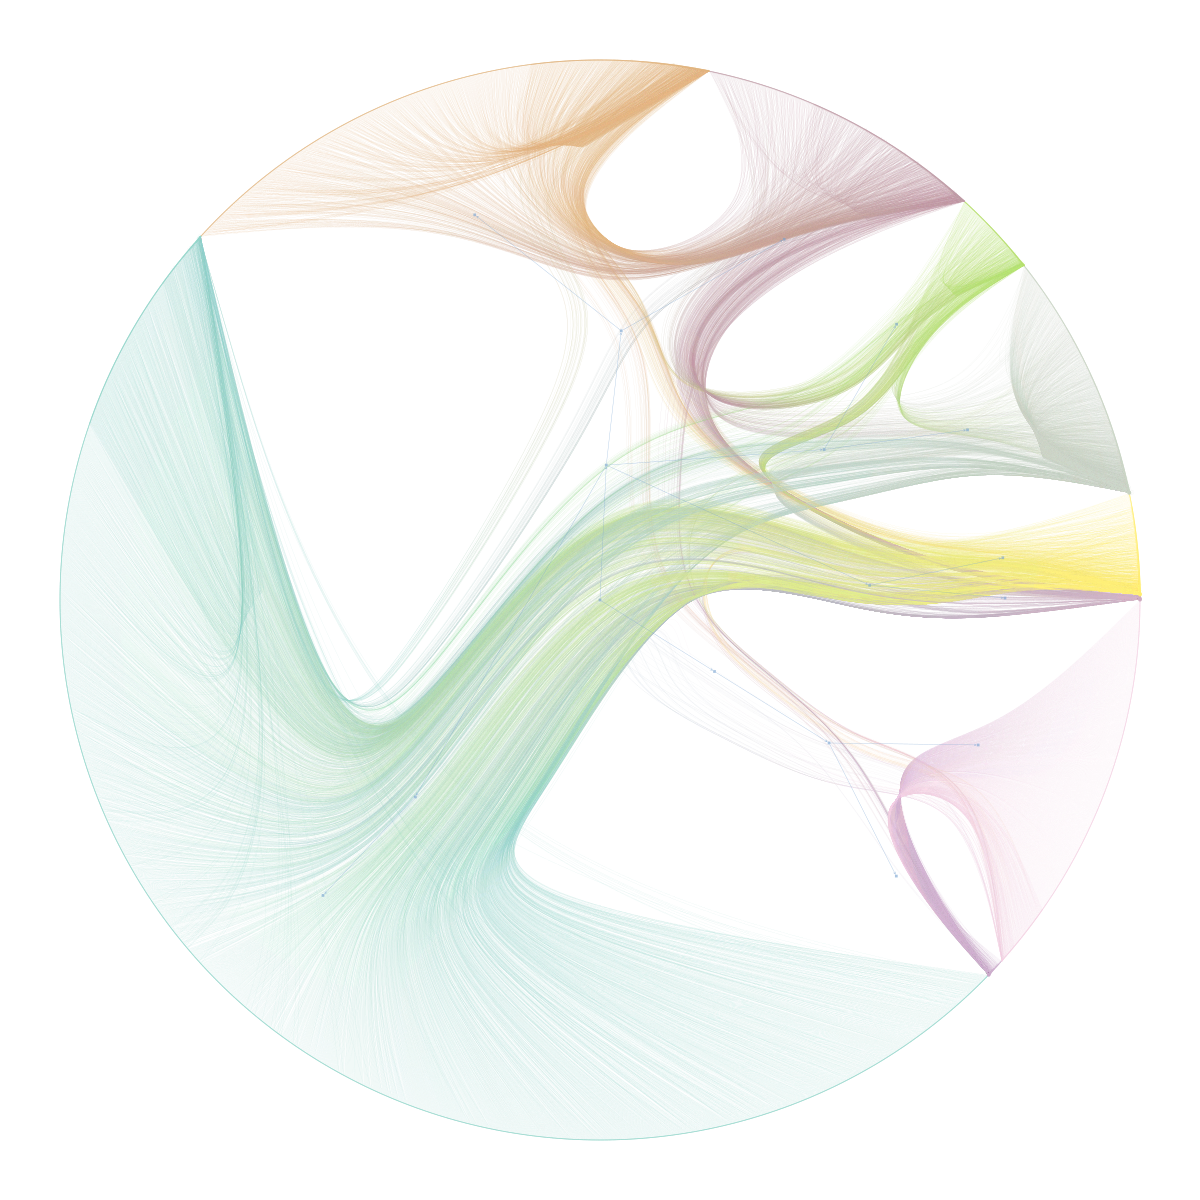
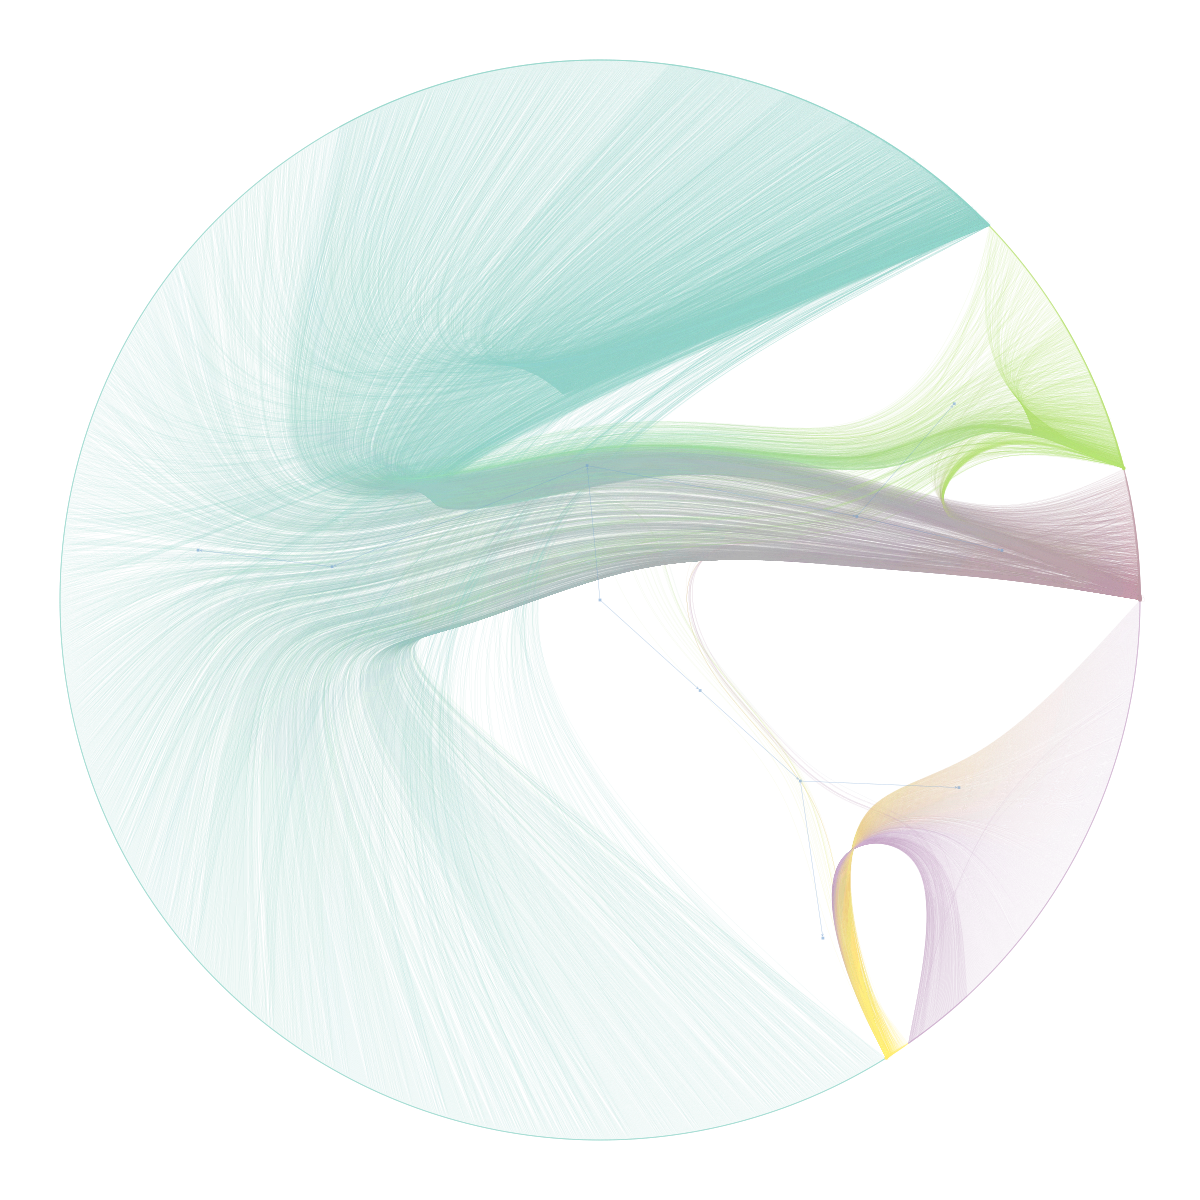
🐛 add weight to betweeness centrality

Changed region(s): [[0.0925, 0.0308, 0.9558, 0.8325], [0.6167, 0.5858, 0.8325, 0.8942]]

diff --git a/docs/src/analysis.html b/docs/src/analysis.html
@@ -423,7 +423,7 @@ weight         (edge)    (type: int32_t)</code></pre>
 <div class="cell-output cell-output-display">
 <p><img src="analysis_files/figure-html/cell-5-output-1.png" class="img-fluid"></p>
 </div>
-<div class="cell-output cell-output-display" data-execution_count="4">
+<div class="cell-output cell-output-display" data-execution_count="19">
 <pre><code>''</code></pre>
 </div>
 </div>
@@ -443,7 +443,7 @@ weight         (edge)    (type: int32_t)</code></pre>
 <div class="cell-output cell-output-display">
 <p><img src="analysis_files/figure-html/cell-6-output-1.png" class="img-fluid"></p>
 </div>
-<div class="cell-output cell-output-display" data-execution_count="5">
+<div class="cell-output cell-output-display" data-execution_count="20">
 <pre><code>''</code></pre>
 </div>
 </div>
@@ -461,7 +461,7 @@ weight         (edge)    (type: int32_t)</code></pre>
 <div class="cell-output cell-output-display">
 <p><img src="analysis_files/figure-html/cell-7-output-1.png" class="img-fluid"></p>
 </div>
-<div class="cell-output cell-output-display" data-execution_count="6">
+<div class="cell-output cell-output-display" data-execution_count="21">
 <pre><code>''</code></pre>
 </div>
 </div>
@@ -478,7 +478,7 @@ weight         (edge)    (type: int32_t)</code></pre>
 <div class="cell-output cell-output-display">
 <p><img src="analysis_files/figure-html/cell-8-output-1.png" class="img-fluid"></p>
 </div>
-<div class="cell-output cell-output-display" data-execution_count="7">
+<div class="cell-output cell-output-display" data-execution_count="22">
 <pre><code>''</code></pre>
 </div>
 </div>
@@ -526,7 +526,7 @@ weight         (edge)    (type: int32_t)</code></pre>
 <span id="cb15-23"><a href="#cb15-23" aria-hidden="true" tabindex="-1"></a>plt.legend()</span>
 <span id="cb15-24"><a href="#cb15-24" aria-hidden="true" tabindex="-1"></a><span class="op">;</span></span></code><button title="Copy to Clipboard" class="code-copy-button"><i class="bi"></i></button></pre></div>
 </details>
-<div class="cell-output cell-output-display" data-execution_count="9">
+<div class="cell-output cell-output-display" data-execution_count="24">
 <pre><code>''</code></pre>
 </div>
 <div class="cell-output cell-output-display">
@@ -591,7 +591,7 @@ weight         (edge)    (type: int32_t)</code></pre>
 35: 0
 36: 1</code></pre>
 </div>
-<div class="cell-output cell-output-display" data-execution_count="10">
+<div class="cell-output cell-output-display" data-execution_count="25">
 <pre><code>''</code></pre>
 </div>
 <div class="cell-output cell-output-display">
@@ -643,28 +643,28 @@ Average path length of the network (out): 1.4754869039623908 with std: 0.0575097
 <span id="cb22-10"><a href="#cb22-10" aria-hidden="true" tabindex="-1"></a><span class="op">;</span></span></code><button title="Copy to Clipboard" class="code-copy-button"><i class="bi"></i></button></pre></div>
 </details>
 <div class="cell-output cell-output-stdout">
-<pre><code>1: 8743
-2: 13474
-3: 13850
+<pre><code>1: 8753
+2: 13460
+3: 13827
 4: 14242
-5: 16132
-6: 13068
-7: 9925
-8: 7192
-9: 6137
-10: 6683
-11: 6783
-12: 5910
-13: 9495
-14: 11039
-15: 8258
-16: 4897
-17: 2371
-18: 850
-19: 148
+5: 16118
+6: 13033
+7: 9919
+8: 7198
+9: 6143
+10: 6700
+11: 6787
+12: 5916
+13: 9522
+14: 11027
+15: 8272
+16: 4911
+17: 2372
+18: 851
+19: 146
 20: 13</code></pre>
 </div>
-<div class="cell-output cell-output-display" data-execution_count="12">
+<div class="cell-output cell-output-display" data-execution_count="27">
 <pre><code>''</code></pre>
 </div>
 <div class="cell-output cell-output-display">
@@ -731,7 +731,7 @@ Average path length of the network (out): 1.4754869039623908 with std: 0.0575097
 19        elemob_de          66          0.16     0.75
 20   OliverSKBerlin          63          0.15     0.72</code></pre>
 </div>
-<div class="cell-output cell-output-display" data-execution_count="13">
+<div class="cell-output cell-output-display" data-execution_count="28">
 <pre><code>''</code></pre>
 </div>
 <div class="cell-output cell-output-display">
@@ -810,7 +810,7 @@ Average path length of the network (out): 1.4754869039623908 with std: 0.0575097
 <div class="cell" data-execution_count="15">
 <details>
 <summary>Code</summary>
-<div class="sourceCode cell-code" id="cb30"><pre class="sourceCode python code-with-copy"><code class="sourceCode python"><span id="cb30-1"><a href="#cb30-1" aria-hidden="true" tabindex="-1"></a>vp, ep <span class="op">=</span> gt.betweenness(g)</span>
+<div class="sourceCode cell-code" id="cb30"><pre class="sourceCode python code-with-copy"><code class="sourceCode python"><span id="cb30-1"><a href="#cb30-1" aria-hidden="true" tabindex="-1"></a>vp, ep <span class="op">=</span> gt.betweenness(g, pivots<span class="op">=</span><span class="va">None</span>, vprop<span class="op">=</span><span class="va">None</span>, eprop<span class="op">=</span><span class="va">None</span>, weight<span class="op">=</span>g.ep[<span class="st">"weight"</span>], norm<span class="op">=</span><span class="va">True</span>)</span>
 <span id="cb30-2"><a href="#cb30-2" aria-hidden="true" tabindex="-1"></a></span>
 <span id="cb30-3"><a href="#cb30-3" aria-hidden="true" tabindex="-1"></a>gt.graph_draw(g, pos<span class="op">=</span>pos, vertex_fill_color<span class="op">=</span>vp,</span>
 <span id="cb30-4"><a href="#cb30-4" aria-hidden="true" tabindex="-1"></a>              vertex_size<span class="op">=</span>gt.prop_to_size(vp, mi<span class="op">=</span><span class="dv">1</span>, ma<span class="op">=</span><span class="dv">10</span>),</span>
@@ -822,7 +822,7 @@ Average path length of the network (out): 1.4754869039623908 with std: 0.0575097
 <div class="cell-output cell-output-display">
 <p><img src="analysis_files/figure-html/cell-16-output-1.png" class="img-fluid"></p>
 </div>
-<div class="cell-output cell-output-display" data-execution_count="15">
+<div class="cell-output cell-output-display" data-execution_count="30">
 <pre><code>''</code></pre>
 </div>
 </div>
@@ -853,32 +853,32 @@ Average path length of the network (out): 1.4754869039623908 with std: 0.0575097
 </details>
 <div class="cell-output cell-output-stdout">
 <pre><code>           Username  Betweenness Score  (normalised)
-1     leseerlaubnis            0.00192          1.00
-2      BentsCristin            0.00184          0.96
-3          SicherEU            0.00180          0.94
-4    EberhardSchlie            0.00165          0.86
-5     Haselmaus2010            0.00152          0.79
-6         Diggi_tal            0.00152          0.79
-7      EINSBERGBLOG            0.00151          0.79
-8       hav_hendrik            0.00126          0.66
-9   JSchmitzLeipzig            0.00122          0.64
-10      Herr_Nuxoll            0.00119          0.62
-11            ciffi            0.00115          0.60
-12    risikogruppen            0.00085          0.44
+1     leseerlaubnis            0.00194          1.00
+2      BentsCristin            0.00188          0.97
+3          SicherEU            0.00182          0.94
+4    EberhardSchlie            0.00167          0.86
+5     risikogruppen            0.00160          0.82
+6     Haselmaus2010            0.00156          0.80
+7         Diggi_tal            0.00155          0.80
+8      EINSBERGBLOG            0.00154          0.79
+9       hav_hendrik            0.00126          0.65
+10  JSchmitzLeipzig            0.00122          0.63
+11      Herr_Nuxoll            0.00119          0.61
+12            ciffi            0.00115          0.59
 13     sdw_Stiftung            0.00081          0.42
-14   HSE_Heidelberg            0.00080          0.42
-15  zumWeitertragen            0.00072          0.37
-16           SenBJF            0.00068          0.35
-17    PartnerSchule            0.00059          0.31
-18      DianaKnodel            0.00053          0.27
-19         Woe_Real            0.00050          0.26
-20       BerlinSoul            0.00046          0.24</code></pre>
+14   HSE_Heidelberg            0.00080          0.41
+15           SenBJF            0.00070          0.36
+16    PartnerSchule            0.00061          0.32
+17         Woe_Real            0.00051          0.26
+18      DianaKnodel            0.00051          0.26
+19       BerlinSoul            0.00046          0.24
+20   regina_kittler            0.00045          0.23</code></pre>
 </div>
-<div class="cell-output cell-output-display" data-execution_count="16">
+<div class="cell-output cell-output-display" data-execution_count="31">
 <pre><code>''</code></pre>
 </div>
 <div class="cell-output cell-output-display">
-<p><img src="analysis_files/figure-html/cell-17-output-3.png" width="687" height="492"></p>
+<p><img src="analysis_files/figure-html/cell-17-output-3.png" width="675" height="492"></p>
 </div>
 </div>
 <p>Calculate top edges by betweenness centrality</p>
@@ -907,26 +907,26 @@ Average path length of the network (out): 1.4754869039623908 with std: 0.0575097
 </details>
 <div class="cell-output cell-output-stdout">
 <pre><code>            Tweeter        Retweeter  Betweenness Score  (normalised)
-1          SicherEU     BentsCristin            0.00172          1.00
-2      BentsCristin   EberhardSchlie            0.00165          0.96
-3    EberhardSchlie    leseerlaubnis            0.00157          0.92
-4     Haselmaus2010        Diggi_tal            0.00152          0.88
-5      EINSBERGBLOG    Haselmaus2010            0.00149          0.87
-6       Herr_Nuxoll      hav_hendrik            0.00121          0.70
-7       hav_hendrik  JSchmitzLeipzig            0.00118          0.69
-8             ciffi      Herr_Nuxoll            0.00115          0.67
-9   JSchmitzLeipzig     EINSBERGBLOG            0.00097          0.57
-10        Diggi_tal    risikogruppen            0.00081          0.47
-11   HSE_Heidelberg     sdw_Stiftung            0.00081          0.47
-12    risikogruppen         SicherEU            0.00075          0.44
-13  zumWeitertragen         SicherEU            0.00072          0.42
-14        Diggi_tal  zumWeitertragen            0.00072          0.42
-15    PartnerSchule           SenBJF            0.00061          0.35
-16     sdw_Stiftung    PartnerSchule            0.00059          0.34
-17         Woe_Real            ciffi            0.00052          0.31
-18           SenBJF     EINSBERGBLOG            0.00052          0.30
-19  StaackSebastian  dreadlock_dread            0.00039          0.23
-20       BerlinSoul   regina_kittler            0.00038          0.22</code></pre>
+1          SicherEU     BentsCristin            0.00174          1.00
+2      BentsCristin   EberhardSchlie            0.00168          0.96
+3    EberhardSchlie    leseerlaubnis            0.00160          0.92
+4         Diggi_tal    risikogruppen            0.00156          0.89
+5     Haselmaus2010        Diggi_tal            0.00155          0.89
+6      EINSBERGBLOG    Haselmaus2010            0.00152          0.87
+7     risikogruppen         SicherEU            0.00148          0.85
+8       Herr_Nuxoll      hav_hendrik            0.00120          0.69
+9       hav_hendrik  JSchmitzLeipzig            0.00118          0.68
+10            ciffi      Herr_Nuxoll            0.00115          0.66
+11  JSchmitzLeipzig     EINSBERGBLOG            0.00097          0.56
+12   HSE_Heidelberg     sdw_Stiftung            0.00081          0.46
+13    PartnerSchule           SenBJF            0.00063          0.36
+14     sdw_Stiftung    PartnerSchule            0.00061          0.35
+15           SenBJF     EINSBERGBLOG            0.00054          0.31
+16         Woe_Real            ciffi            0.00053          0.30
+17       BerlinSoul   regina_kittler            0.00039          0.22
+18      DianaKnodel            ciffi            0.00037          0.21
+19  StaackSebastian  dreadlock_dread            0.00037          0.21
+20  dreadlock_dread         Woe_Real            0.00031          0.18</code></pre>
 </div>
 <div class="cell-output cell-output-display">
 <p><img src="analysis_files/figure-html/cell-18-output-2.png" width="623" height="453"></p>
@@ -1045,7 +1045,7 @@ Average path length of the network (out): 1.4754869039623908 with std: 0.0575097
 1428               0.01312  
 3254               0.01301  </code></pre>
 </div>
-<div class="cell-output cell-output-display" data-execution_count="19">
+<div class="cell-output cell-output-display" data-execution_count="34">
 <pre><code>''</code></pre>
 </div>
 <div class="cell-output cell-output-display">
@@ -1108,7 +1108,7 @@ Average path length of the network (out): 1.4754869039623908 with std: 0.0575097
 19       RSandra266         0.00609          0.17
 20          LHaasis         0.00564          0.16</code></pre>
 </div>
-<div class="cell-output cell-output-display" data-execution_count="20">
+<div class="cell-output cell-output-display" data-execution_count="35">
 <pre><code>''</code></pre>
 </div>
 <div class="cell-output cell-output-display">
@@ -1128,8 +1128,8 @@ Average path length of the network (out): 1.4754869039623908 with std: 0.0575097
 <span id="cb45-2"><a href="#cb45-2" aria-hidden="true" tabindex="-1"></a></span>
 <span id="cb45-3"><a href="#cb45-3" aria-hidden="true" tabindex="-1"></a>gt.local_clustering(g, prop<span class="op">=</span>g.vp[<span class="st">"local_clustering"</span>], undirected<span class="op">=</span><span class="va">False</span>)</span></code><button title="Copy to Clipboard" class="code-copy-button"><i class="bi"></i></button></pre></div>
 </details>
-<div class="cell-output cell-output-display" data-execution_count="21">
-<pre><code>&lt;VertexPropertyMap object with value type 'double', for Graph 0x7fa5d5800a30, at 0x7fa56cd17100&gt;</code></pre>
+<div class="cell-output cell-output-display" data-execution_count="36">
+<pre><code>&lt;VertexPropertyMap object with value type 'double', for Graph 0x7f13c2ec3e50, at 0x7f13c0b97e20&gt;</code></pre>
 </div>
 </div>
 <p>Comments: how do I use this?</p>
@@ -1141,10 +1141,10 @@ Average path length of the network (out): 1.4754869039623908 with std: 0.0575097
 <summary>Code</summary>
 <div class="sourceCode cell-code" id="cb47"><pre class="sourceCode python code-with-copy"><code class="sourceCode python"><span id="cb47-1"><a href="#cb47-1" aria-hidden="true" tabindex="-1"></a>gt.pseudo_diameter(g,  source<span class="op">=</span><span class="va">None</span>, weights<span class="op">=</span>g.ep[<span class="st">"weight"</span>])</span></code><button title="Copy to Clipboard" class="code-copy-button"><i class="bi"></i></button></pre></div>
 </details>
-<div class="cell-output cell-output-display" data-execution_count="22">
+<div class="cell-output cell-output-display" data-execution_count="37">
 <pre><code>(1.0,
- (&lt;Vertex object with index '0' at 0x7fa56cfb45c0&gt;,
-  &lt;Vertex object with index '453' at 0x7fa56cfb4dc0&gt;))</code></pre>
+ (&lt;Vertex object with index '0' at 0x7f13f0b708c0&gt;,
+  &lt;Vertex object with index '453' at 0x7f13f0b719c0&gt;))</code></pre>
 </div>
 </div>
 </section>
@@ -1160,8 +1160,8 @@ Average path length of the network (out): 1.4754869039623908 with std: 0.0575097
 <div class="cell-output cell-output-display">
 <p><img src="analysis_files/figure-html/cell-24-output-1.png" class="img-fluid"></p>
 </div>
-<div class="cell-output cell-output-display" data-execution_count="23">
-<pre><code>&lt;VertexPropertyMap object with value type 'vector&lt;double&gt;', for Graph 0x7fa5d5800a30, at 0x7fa56c9a74c0&gt;</code></pre>
+<div class="cell-output cell-output-display" data-execution_count="38">
+<pre><code>&lt;VertexPropertyMap object with value type 'vector&lt;double&gt;', for Graph 0x7f13c2ec3e50, at 0x7f13c2afd330&gt;</code></pre>
 </div>
 </div>
 <p>Comment: what does that show, exactly?</p>
@@ -1178,8 +1178,8 @@ Average path length of the network (out): 1.4754869039623908 with std: 0.0575097
 <div class="cell-output cell-output-display">
 <p><img src="analysis_files/figure-html/cell-25-output-1.png" class="img-fluid"></p>
 </div>
-<div class="cell-output cell-output-display" data-execution_count="24">
-<pre><code>&lt;VertexPropertyMap object with value type 'vector&lt;double&gt;', for Graph 0x7fa5d5800a30, at 0x7fa56c9936d0&gt;</code></pre>
+<div class="cell-output cell-output-display" data-execution_count="39">
+<pre><code>&lt;VertexPropertyMap object with value type 'vector&lt;double&gt;', for Graph 0x7f13c2ec3e50, at 0x7f13c0b969e0&gt;</code></pre>
 </div>
 </div>
 <div class="cell" data-execution_count="25">
@@ -1192,10 +1192,10 @@ Average path length of the network (out): 1.4754869039623908 with std: 0.0575097
 <div class="cell-output cell-output-display">
 <p><img src="analysis_files/figure-html/cell-26-output-1.png" class="img-fluid"></p>
 </div>
-<div class="cell-output cell-output-display" data-execution_count="25">
-<pre><code>(&lt;VertexPropertyMap object with value type 'vector&lt;double&gt;', for Graph 0x7fa5d5800a30, at 0x7fa56c9d2470&gt;,
- &lt;GraphView object, directed, with 5973 vertices and 5972 edges, edges filtered by (&lt;EdgePropertyMap object with value type 'bool', for Graph 0x7fa56c9d3610, at 0x7fa56cec8040&gt;, False), vertices filtered by (&lt;VertexPropertyMap object with value type 'bool', for Graph 0x7fa56c9d3610, at 0x7fa63ea82cb0&gt;, False), at 0x7fa56c9d3610&gt;,
- &lt;VertexPropertyMap object with value type 'vector&lt;double&gt;', for Graph 0x7fa56c9d3610, at 0x7fa56cec8640&gt;)</code></pre>
+<div class="cell-output cell-output-display" data-execution_count="40">
+<pre><code>(&lt;VertexPropertyMap object with value type 'vector&lt;double&gt;', for Graph 0x7f13c2ec3e50, at 0x7f142788c7f0&gt;,
+ &lt;GraphView object, directed, with 5967 vertices and 5966 edges, edges filtered by (&lt;EdgePropertyMap object with value type 'bool', for Graph 0x7f13c26dbe20, at 0x7f13c26d9ff0&gt;, False), vertices filtered by (&lt;VertexPropertyMap object with value type 'bool', for Graph 0x7f13c26dbe20, at 0x7f13c26d8d30&gt;, False), at 0x7f13c26dbe20&gt;,
+ &lt;VertexPropertyMap object with value type 'vector&lt;double&gt;', for Graph 0x7f13c26dbe20, at 0x7f13c26da290&gt;)</code></pre>
 </div>
 </div>
 <p>Comment: What is going on here??</p>
@@ -1224,8 +1224,8 @@ Average path length of the network (out): 1.4754869039623908 with std: 0.0575097
 <div class="cell-output cell-output-display">
 <p><img src="analysis_files/figure-html/cell-27-output-1.png" class="img-fluid"></p>
 </div>
-<div class="cell-output cell-output-display" data-execution_count="26">
-<pre><code>&lt;VertexPropertyMap object with value type 'vector&lt;double&gt;', for Graph 0x7fa5d5800a30, at 0x7fa573446890&gt;</code></pre>
+<div class="cell-output cell-output-display" data-execution_count="41">
+<pre><code>&lt;VertexPropertyMap object with value type 'vector&lt;double&gt;', for Graph 0x7f13c2ec3e50, at 0x7f13c0d251b0&gt;</code></pre>
 </div>
 </div>
 </section>
@@ -1249,8 +1249,8 @@ Average path length of the network (out): 1.4754869039623908 with std: 0.0575097
 <span id="cb57-13"><a href="#cb57-13" aria-hidden="true" tabindex="-1"></a></span>
 <span id="cb57-14"><a href="#cb57-14" aria-hidden="true" tabindex="-1"></a>plt.legend()</span></code><button title="Copy to Clipboard" class="code-copy-button"><i class="bi"></i></button></pre></div>
 </details>
-<div class="cell-output cell-output-display" data-execution_count="27">
-<pre><code>&lt;matplotlib.legend.Legend at 0x7fa56ceca350&gt;</code></pre>
+<div class="cell-output cell-output-display" data-execution_count="42">
+<pre><code>&lt;matplotlib.legend.Legend at 0x7f13c0d47f10&gt;</code></pre>
 </div>
 <div class="cell-output cell-output-display">
 <p><img src="analysis_files/figure-html/cell-28-output-2.png" width="583" height="411"></p>
@@ -1268,8 +1268,8 @@ Average path length of the network (out): 1.4754869039623908 with std: 0.0575097
 <div class="cell-output cell-output-display">
 <p><img src="analysis_files/figure-html/cell-29-output-1.png" class="img-fluid"></p>
 </div>
-<div class="cell-output cell-output-display" data-execution_count="28">
-<pre><code>&lt;VertexPropertyMap object with value type 'vector&lt;double&gt;', for Graph 0x7fa5d5800a30, at 0x7fa56ca58910&gt;</code></pre>
+<div class="cell-output cell-output-display" data-execution_count="43">
+<pre><code>&lt;VertexPropertyMap object with value type 'vector&lt;double&gt;', for Graph 0x7f13c2ec3e50, at 0x7f13c0c75e10&gt;</code></pre>
 </div>
 </div>
 </section>
